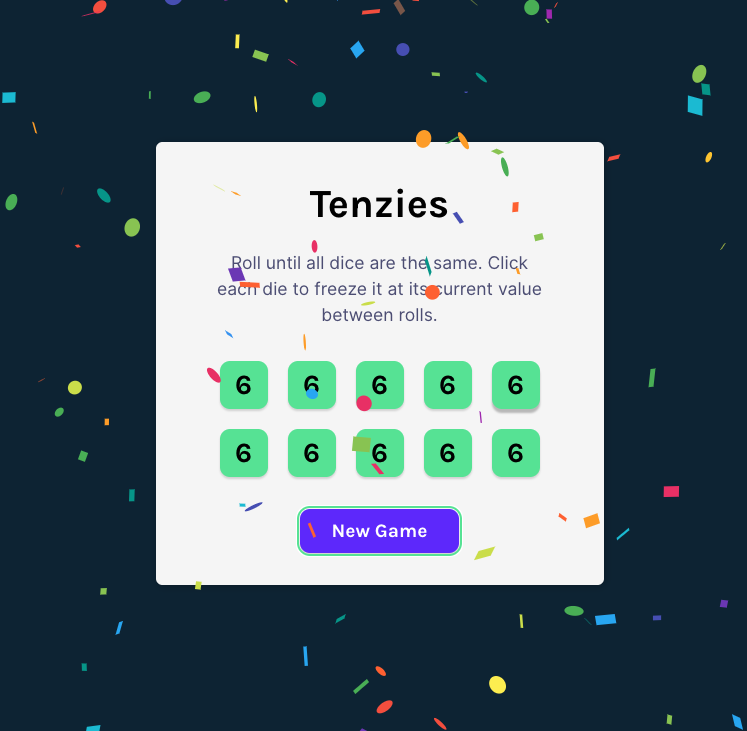
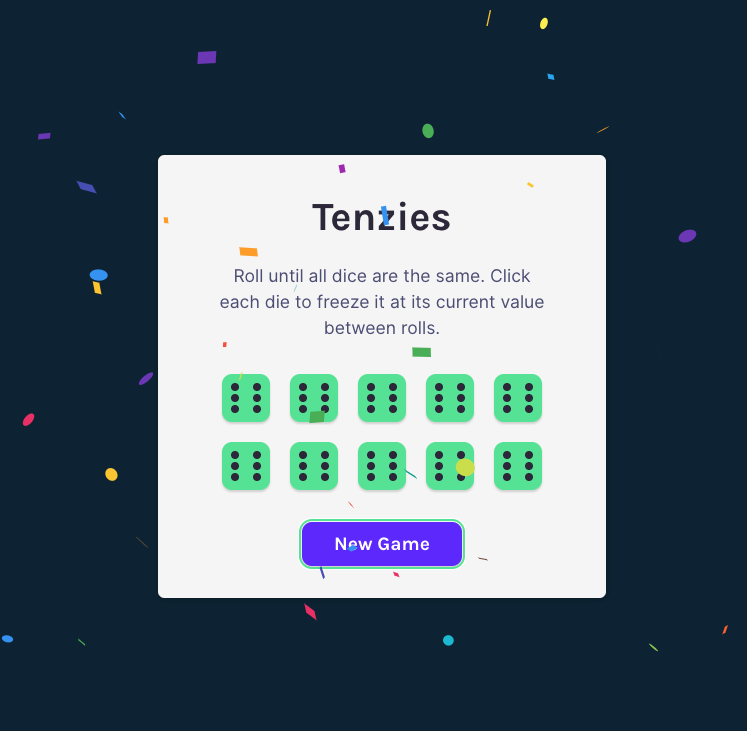
Render Die component with dots instead of numbers

diff --git a/src/Die.jsx b/src/Die.jsx
@@ -1,13 +1,35 @@
 import "./app.css";
 
+const dotPatterns = {
+  1: [4],
+  2: [0, 8],
+  3: [0, 4, 8],
+  4: [0, 2, 6, 8],
+  5: [0, 2, 4, 6, 8],
+  6: [0, 2, 3, 5, 6, 8],
+};
+
 export function Die({ value, isHeld, holdDie }) {
   const styles = {
     backgroundColor: isHeld ? "#59E391" : "white",
   };
 
   return (
-    <button type="button" className="die" style={styles} onClick={holdDie}>
-      {value}
+    <button
+      type="button"
+      className="die"
+      style={styles}
+      onClick={holdDie}
+      aria-label={value}
+    >
+      <div className="dots">
+        {Array.from({ length: 9 }, (_, idx) => (
+          <span
+            key={`${value} - ${idx}`}
+            className={`dot ${dotPatterns[value].includes(idx) ? "filled" : ""}`}
+          />
+        ))}
+      </div>
     </button>
   );
 }

diff --git a/src/app.css b/src/app.css
@@ -24,6 +24,7 @@ main {
 
 .title {
   font-size: 2.5rem;
+  color: #2b283a;
 }
 
 .instructions {
@@ -42,15 +43,31 @@ main {
 }
 
 .die {
+  display: flex;
+  align-items: center;
+  justify-content: center;
   width: 3rem;
   height: 3rem;
-  font-size: 1.75rem;
-  font-weight: 700;
-  background-color: white;
-  border: none;
   border-radius: 0.625rem;
   box-shadow: 0 2px 2px rgba(0, 0, 0, 0.15);
-  transition: background-color 0.3s;
+}
+
+.dots {
+  display: grid;
+  grid-template-rows: repeat(3, 1fr);
+  grid-template-columns: repeat(3, 1fr);
+  gap: 0.2rem;
+}
+
+.dot {
+  width: 0.5rem;
+  height: 0.5rem;
+  background-color: transparent;
+  border-radius: 50%;
+}
+
+.dot.filled {
+  background-color: #2b283a;
 }
 
 .die:focus,
